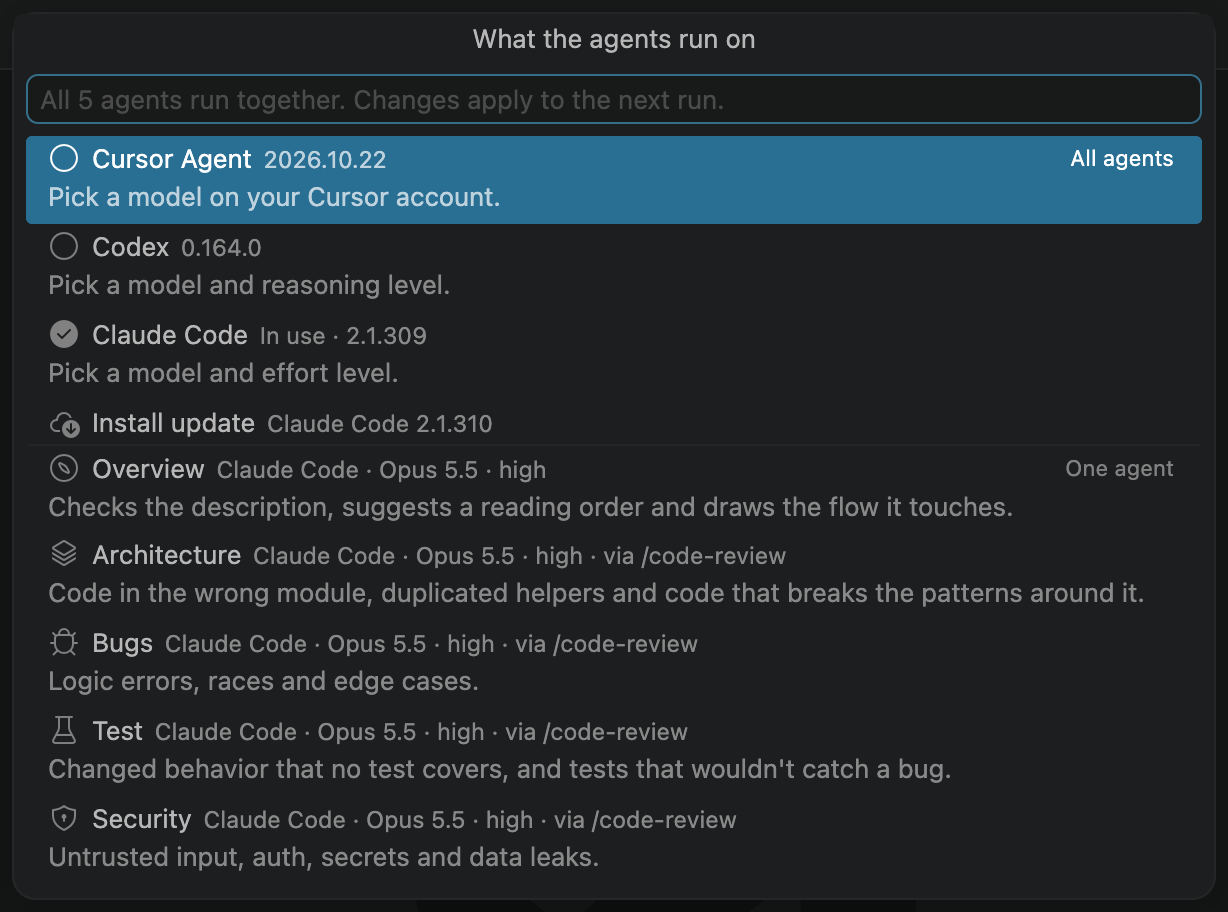
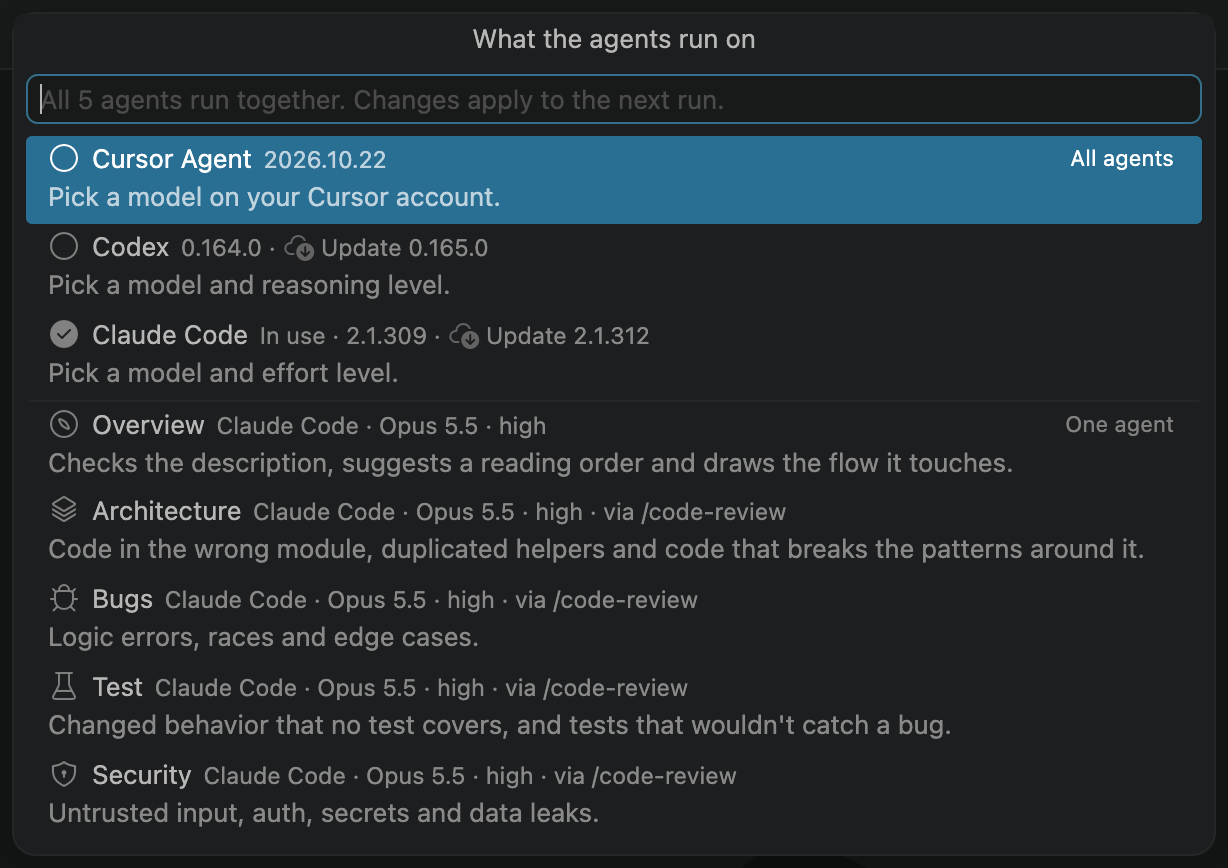
Show a CLI update on that program's row instead of a second row. (#12)

Changed region(s): [[0.0, 0.0311, 0.9902, 0.9643], [0.8664, 0.4666, 0.9593, 0.5288]]

diff --git a/docs/index.html b/docs/index.html
@@ -72,7 +72,7 @@
 <ul><li>A two-minute pause folds a burst of pushes into one run.</li><li>Drafts are skipped.</li><li>A pull request over 100 files or 5,000 changed lines waits until you press <strong>Run agents</strong>.</li><li>Each pull request gets at most five automatic runs.</li><li>If it&#39;s already approved, X-RayViewer asks once per push: <strong>Skip this PR</strong>, <strong>Run anyway</strong>, or <strong>Always skip approved</strong>.</li><li>A run that starts by itself never posts. It waits for you.</li></ul>
 <p>With several windows open, one window starts the automatic runs, and a pull request&#39;s agents run in one window at a time.</p>
 <h2 id="pick-the-program-and-model">Pick the program and model</h2>
-<p><a class="shot" href="picker.png"><img src="picker.png" alt="What the agents run on: Cursor Agent, Codex, and Claude Code with their versions, an Install update row under Claude Code, then each agent with its program, model, and what it looks at"></a></p>
+<p><a class="shot" href="picker.png"><img src="picker.png" alt="What the agents run on: Cursor Agent, Codex with a download icon and Update 0.165.0, Claude Code with Update 2.1.312, then each agent with its program, model, and what it looks at"></a></p>
 <p>Open the picker from the arrow beside <strong>Run agents</strong>, from <strong>Change</strong> on the page&#39;s model line, or with <strong>X-RayViewer: Choose Agent Harnesses…</strong>. Pick a program under <strong>All agents</strong> to move every agent to it, or pick one agent to move only that one. Picking saves the choice. It never starts a run.</p>
 <p><a class="shot" href="picker-models.png"><img src="picker-models.png" alt="Model for agents on Claude Code: Claude Code&#39;s default, Fable 5.1, Opus 5.5 in use, Sonnet 5.5, Haiku 5.5, and Change installed version"></a></p>
 <p>Then pick a model.</p>
@@ -83,7 +83,7 @@
 <p>Picking the level saves the model and level together, and a note says what the agents will use, such as &quot;Claude Code agents will use Opus 5.5 at high effort.&quot; Escape backs out without saving. Each agent&#39;s row in the picker shows its level, such as <strong>Claude Code · Opus 5.5 · high</strong>. The level every agent on a program uses is stored in <code>xrayviewer.claude.extraArgs</code> (<code>--effort high</code>) or <code>xrayviewer.codex.extraArgs</code>.</p>
 <p>A model or level picked for one agent is that agent&#39;s own, and the other agents keep theirs. In both steps, the first row, such as <strong>Same as the other Claude Code agents</strong>, drops it again. The level is saved as <code>effort</code> in <code>agents.yml</code>, and moving the agent to another program clears it. The agents that hand over to /code-review share one run, at the highest level among them.</p>
 <p>On a review page, the picker is for that pull request only, so two pull requests can run on different models. <strong>Use the default</strong> drops that pull request&#39;s own choice, and <strong>Change the default…</strong> changes it for every other pull request.</p>
-<p>A program that&#39;s missing says <strong>Not installed</strong> and gets an <strong>Install</strong> row under it. Picking the program or that row installs it, then you pick a model. One with a newer release gets an <strong>Install update</strong> row under it. <strong>Change installed version…</strong> picks another installed copy of Claude Code or Codex.</p>
+<p>A program that&#39;s missing says <strong>Not installed</strong> and gets an <strong>Install</strong> row under it. Picking the program or that row installs it, then you pick a model. One with a newer release says <strong>Update</strong> and the new version on its own row, and the download button on the right of that row installs it. <strong>Change installed version…</strong> picks another installed copy of Claude Code or Codex.</p>
 <h2 id="change-what-the-agents-look-for">Change what the agents look for</h2>
 <p>The first run writes <code>~/.xrayviewer</code> (<code>XRAYVIEWER_HOME</code> moves it): <code>agents.yml</code> lists the agents, and <code>agents/&lt;id&gt;.md</code> holds each agent&#39;s instructions under <strong>Look for</strong> and <strong>Leave alone</strong>. <strong>X-RayViewer: Customize Agents…</strong> opens them, and changes apply on the next run. The ids are older than some names: the overview agent is <code>guide</code>, and the bugs agent is <code>correctness</code>.</p>
 <p>To add an agent, run <strong>X-RayViewer: New Agent…</strong>, or add a block to <code>agents.yml</code> and a matching <code>agents/migrations.md</code>:</p>

diff --git a/src/harness-picker.ts b/src/harness-picker.ts
@@ -18,6 +18,8 @@ export interface PickerRow {
   harness?: HarnessId;
   /** Install when the CLI is missing. Install update when a newer version is published. */
   action?: "install" | "update";
+  /** The tooltip of the button on the right of the row. */
+  actionTip?: string;
   /** Picking the row downloads `harness` instead of choosing anything. */
   runs?: "install" | "update";
   separator?: true;
@@ -55,8 +57,10 @@ function cliRow(harness: HarnessId, installed: string, latest: string, usedBy: n
   const action: PickerRow["action"] = !installed ? "install" : latest ? "update" : undefined;
   const all = Boolean(installed) && running > 0 && usedBy === running;
   const used = !installed || !usedBy ? "" : all ? "In use" : `${usedBy} of ${running} agents`;
-  const description = [used, installed ? shortVersion(installed) : "Not installed"].filter(Boolean).join(" · ");
-  const base = { description, icon: all ? "pass-filled" : usedBy && installed ? "pass" : "circle-large-outline", harness, ...(action ? { action } : {}) };
+  const version = installed ? shortVersion(installed) : "Not installed";
+  const description = [used, version, action === "update" ? `$(cloud-download) Update ${shortVersion(latest)}` : ""].filter(Boolean).join(" · ");
+  const actionTip = action === "install" ? "Install" : action === "update" ? `Install update to ${shortVersion(latest)}` : undefined;
+  const base = { description, icon: all ? "pass-filled" : usedBy && installed ? "pass" : "circle-large-outline", harness, ...(action ? { action, actionTip } : {}) };
   switch (harness) {
     case "cursor":
       return {
@@ -86,18 +90,8 @@ function cliRow(harness: HarnessId, installed: string, latest: string, usedBy: n
   }
 }
 
-function downloadRow(action: "install" | "update", cli: string, harness: HarnessId, latest: string): PickerRow {
-  const icon = "cloud-download";
-  switch (action) {
-    case "install":
-      return { label: "Install", description: cli, icon, harness, runs: "install" };
-    case "update":
-      return { label: "Install update", description: `${cli} ${shortVersion(latest)}`, icon, harness, runs: "update" };
-    default: {
-      const never: never = action;
-      return never;
-    }
-  }
+function installRow(cli: string, harness: HarnessId): PickerRow {
+  return { label: "Install", description: cli, icon: "cloud-download", harness, runs: "install" };
 }
 
 function scopeRows(scope: NonNullable<PickerInput["scope"]>): PickerRow[] {
@@ -113,9 +107,9 @@ function scopeRows(scope: NonNullable<PickerInput["scope"]>): PickerRow[] {
 /**
  * The agent picker: move every agent to one CLI, or change one agent. It only saves the choice. Every agent that's
  * on runs together when Run agents is pressed, whichever row was changed, so the placeholder says so.
- * Install and Install update are the CLI row's button, which the editor only draws while the mouse is on the row, so
- * a missing CLI gets an Install row under it and an update gets an Install update row. Picking a missing CLI installs
- * it. Picking an installed CLI still chooses that CLI.
+ * An update keeps to the CLI's own row: the row says Update and the new version, and the download button on its right
+ * installs it. A missing CLI gets an Install row under it, and picking the CLI installs it too. Picking an installed
+ * CLI still chooses that CLI.
  * With a scope, the choice is for that pull request only, and the last rows lead back to the default.
  */
 export function harnessPicker(input: PickerInput): Picker {
@@ -126,7 +120,7 @@ export function harnessPicker(input: PickerInput): Picker {
   const clis = (["cursor", "codex", "claude"] as const).flatMap((harness) => {
     const latest = updates[harness] ?? "";
     const row = cliRow(harness, installed[harness], latest, usedBy(harness), running.length);
-    return row.action ? [row, downloadRow(row.action, row.label, harness, latest)] : [row];
+    return row.action === "install" ? [row, installRow(row.label, harness)] : [row];
   });
 
   const agentRows = plan.map((p): PickerRow => {

diff --git a/test/wiring.test.ts b/test/wiring.test.ts
@@ -52,11 +52,15 @@ const vscode = stubModule("vscode", {
         onDidHide(fn: () => void) {
           qp._hide = fn;
         },
-        onDidTriggerItemButton() {},
+        _button: undefined as ((event: { item: Record<string, unknown> }) => void) | undefined,
+        onDidTriggerItemButton(fn: (event: { item: Record<string, unknown> }) => void) {
+          qp._button = fn;
+        },
         show() {
           state.picks.push({ title: qp.title, placeHolder: qp.placeholder, items: qp.items });
           const chosen = state.script.shift()?.(qp.items);
-          if (chosen) {
+          if (chosen?.button === true) qp._button?.({ item: chosen.item });
+          else if (chosen) {
             qp.selectedItems = [chosen];
             qp._accept?.();
           }
@@ -430,7 +434,7 @@ describe("the patched extension", () => {
     assert.ok(!pick.items.some((item) => item.agent === "run" || item.agent === "default"), "the picker only saves; Run agents runs");
   });
 
-  test("an Install update row under a CLI with a newer release asks to install it, then opens the picker again", async () => {
+  test("a CLI with a newer release says so on its own row, and its download button asks to install the update", async () => {
     const versions = path.join(root, ".local", "share", "claude", "versions");
     await mkdir(versions, { recursive: true });
     await writeFile(path.join(versions, "2.1.300"), "");
@@ -438,7 +442,7 @@ describe("the patched extension", () => {
     globalThis.fetch = (async (url: string) => ({ ok: true, text: async () => (url.includes("claude-code-releases") ? "2.1.310\n" : "") })) as unknown as typeof fetch;
     state.picks = [];
     state.messages = [];
-    state.script = [(items) => items.find((item) => item.runs === "update")];
+    state.script = [(items) => ({ button: true, item: items.find((item) => item.agent === "install-claude") })];
     try {
       await state.commands.get("xrayviewer.selectHarness")!();
     } finally {
@@ -447,18 +451,17 @@ describe("the patched extension", () => {
     }
 
     const [pick] = state.picks;
-    const claude = pick.items.findIndex((item) => item.agent === "install-claude");
-    const { iconPath, ...update } = pick.items[claude + 1];
-    assert.deepEqual(update, { label: "Install update", description: "Claude Code 2.1.310", icon: "cloud-download", harness: "claude", runs: "update" });
-    assert.deepEqual(iconPath, new ThemeIcon("cloud-download"));
-    assert.deepEqual(pick.items[claude].buttons?.map((button: { tooltip: string }) => button.tooltip), ["Install update"], "the CLI row keeps its button");
+    const claude = pick.items.find((item) => item.agent === "install-claude");
+    assert.ok(claude);
+    assert.equal(claude.description, "In use · 2.1.300 · $(cloud-download) Update 2.1.310");
     assert.deepEqual(
-      pick.items.filter((item) => item.runs).map((item) => `${item.runs}-${item.harness}`),
-      ["install-codex", "update-claude"],
-      "Codex is not installed here, so it gets Install; only Claude Code has a newer release",
+      claude.buttons?.map((button: { tooltip: string; iconPath: ThemeIcon }) => [button.tooltip, button.iconPath]),
+      [["Install update to 2.1.310", new ThemeIcon("cloud-download")]],
     );
+    assert.equal(pick.items.some((item) => item.runs === "update"), false, "there is no second row for the update");
     assert.deepEqual(state.messages, ["Install the update for Claude Code? X-RayViewer will download the latest version."]);
     assert.equal(state.picks.length, 2, "saying no goes back to the picker");
+    assert.equal(state.picks[1].title, "What the agents run on");
   });
 
   test("a CLI that is not installed gets an Install row, and picking the CLI or that row asks to install it", async () => {

diff --git a/test/harness-picker.test.ts b/test/harness-picker.test.ts
@@ -108,25 +108,23 @@ describe("harnessPicker", () => {
     assert.equal(picker.placeHolder, "Changes apply to the next run.");
   });
 
-  test("puts an Install update row under each CLI that has a newer version, and keeps the CLI row's button", () => {
+  test("says Update and the new version on a CLI that has one, and keeps the download button on that row", () => {
     const picker = harnessPicker({
       ...input,
       updates: { claude: "2.1.308", codex: "0.163.0", cursor: "2026.10.22-27dcf5f" },
     });
-    const [, cursor, cursorUpdate, codex, codexUpdate, claude, claudeUpdate, next] = picker.rows;
+    const [, cursor, codex, claude, next] = picker.rows;
 
-    assert.deepEqual(cursorUpdate, { label: "Install update", description: "Cursor Agent 2026.10.22", icon: "cloud-download", harness: "cursor", runs: "update" });
-    assert.deepEqual([codexUpdate.description, codexUpdate.harness, codexUpdate.runs], ["Codex 0.163.0", "codex", "update"]);
-    assert.deepEqual([claudeUpdate.description, claudeUpdate.harness, claudeUpdate.runs], ["Claude Code 2.1.308", "claude", "update"]);
-    assert.equal(next.label, "One agent");
-    assert.deepEqual([cursor.description, cursor.action], ["2026.10.19", "update"]);
-    assert.deepEqual([codex.description, codex.action], ["1 of 3 agents · 0.162.1", "update"]);
+    assert.deepEqual([cursor.description, cursor.action, cursor.actionTip], ["2026.10.19 · $(cloud-download) Update 2026.10.22", "update", "Install update to 2026.10.22"]);
+    assert.deepEqual([codex.description, codex.actionTip], ["1 of 3 agents · 0.162.1 · $(cloud-download) Update 0.163.0", "Install update to 0.163.0"]);
     assert.equal(claude.agent, "install-claude", "picking the CLI row still chooses that CLI");
+    assert.equal(next.label, "One agent");
+    assert.equal(picker.rows.some((row) => row.runs === "update"), false, "the update stays on the CLI row");
 
     const one = harnessPicker({ ...input, updates: { claude: "2.1.308" } });
     assert.deepEqual(
-      one.rows.slice(0, 6).map((row) => row.agent ?? (row.runs ? `${row.runs}-${row.harness}` : `-- ${row.label}`)),
-      ["-- All agents", "pick-cursor", "install-codex", "install-claude", "update-claude", "-- One agent"],
+      one.rows.slice(0, 5).map((row) => row.agent ?? `-- ${row.label}`),
+      ["-- All agents", "pick-cursor", "install-codex", "install-claude", "-- One agent"],
     );
   });
 

diff --git a/assets/readme.md b/assets/readme.md
@@ -116,7 +116,7 @@ With several windows open, one window starts the automatic runs, and a pull requ
 
 ## Pick the program and model
 
-![What the agents run on: Cursor Agent, Codex, and Claude Code with their versions, an Install update row under Claude Code, then each agent with its program, model, and what it looks at](docs/picker.png)
+![What the agents run on: Cursor Agent, Codex with a download icon and Update 0.165.0, Claude Code with Update 2.1.312, then each agent with its program, model, and what it looks at](docs/picker.png)
 
 Open the picker from the arrow beside **Run agents**, from **Change** on the page's model line, or with **X-RayViewer: Choose Agent Harnesses…**. Pick a program under **All agents** to move every agent to it, or pick one agent to move only that one. Picking saves the choice. It never starts a run.
 
@@ -142,7 +142,7 @@ A model or level picked for one agent is that agent's own, and the other agents 
 
 On a review page, the picker is for that pull request only, so two pull requests can run on different models. **Use the default** drops that pull request's own choice, and **Change the default…** changes it for every other pull request.
 
-A program that's missing says **Not installed** and gets an **Install** row under it. Picking the program or that row installs it, then you pick a model. One with a newer release gets an **Install update** row under it. **Change installed version…** picks another installed copy of Claude Code or Codex.
+A program that's missing says **Not installed** and gets an **Install** row under it. Picking the program or that row installs it, then you pick a model. One with a newer release says **Update** and the new version on its own row, and the download button on the right of that row installs it. **Change installed version…** picks another installed copy of Claude Code or Codex.
 
 ## Change what the agents look for
 
